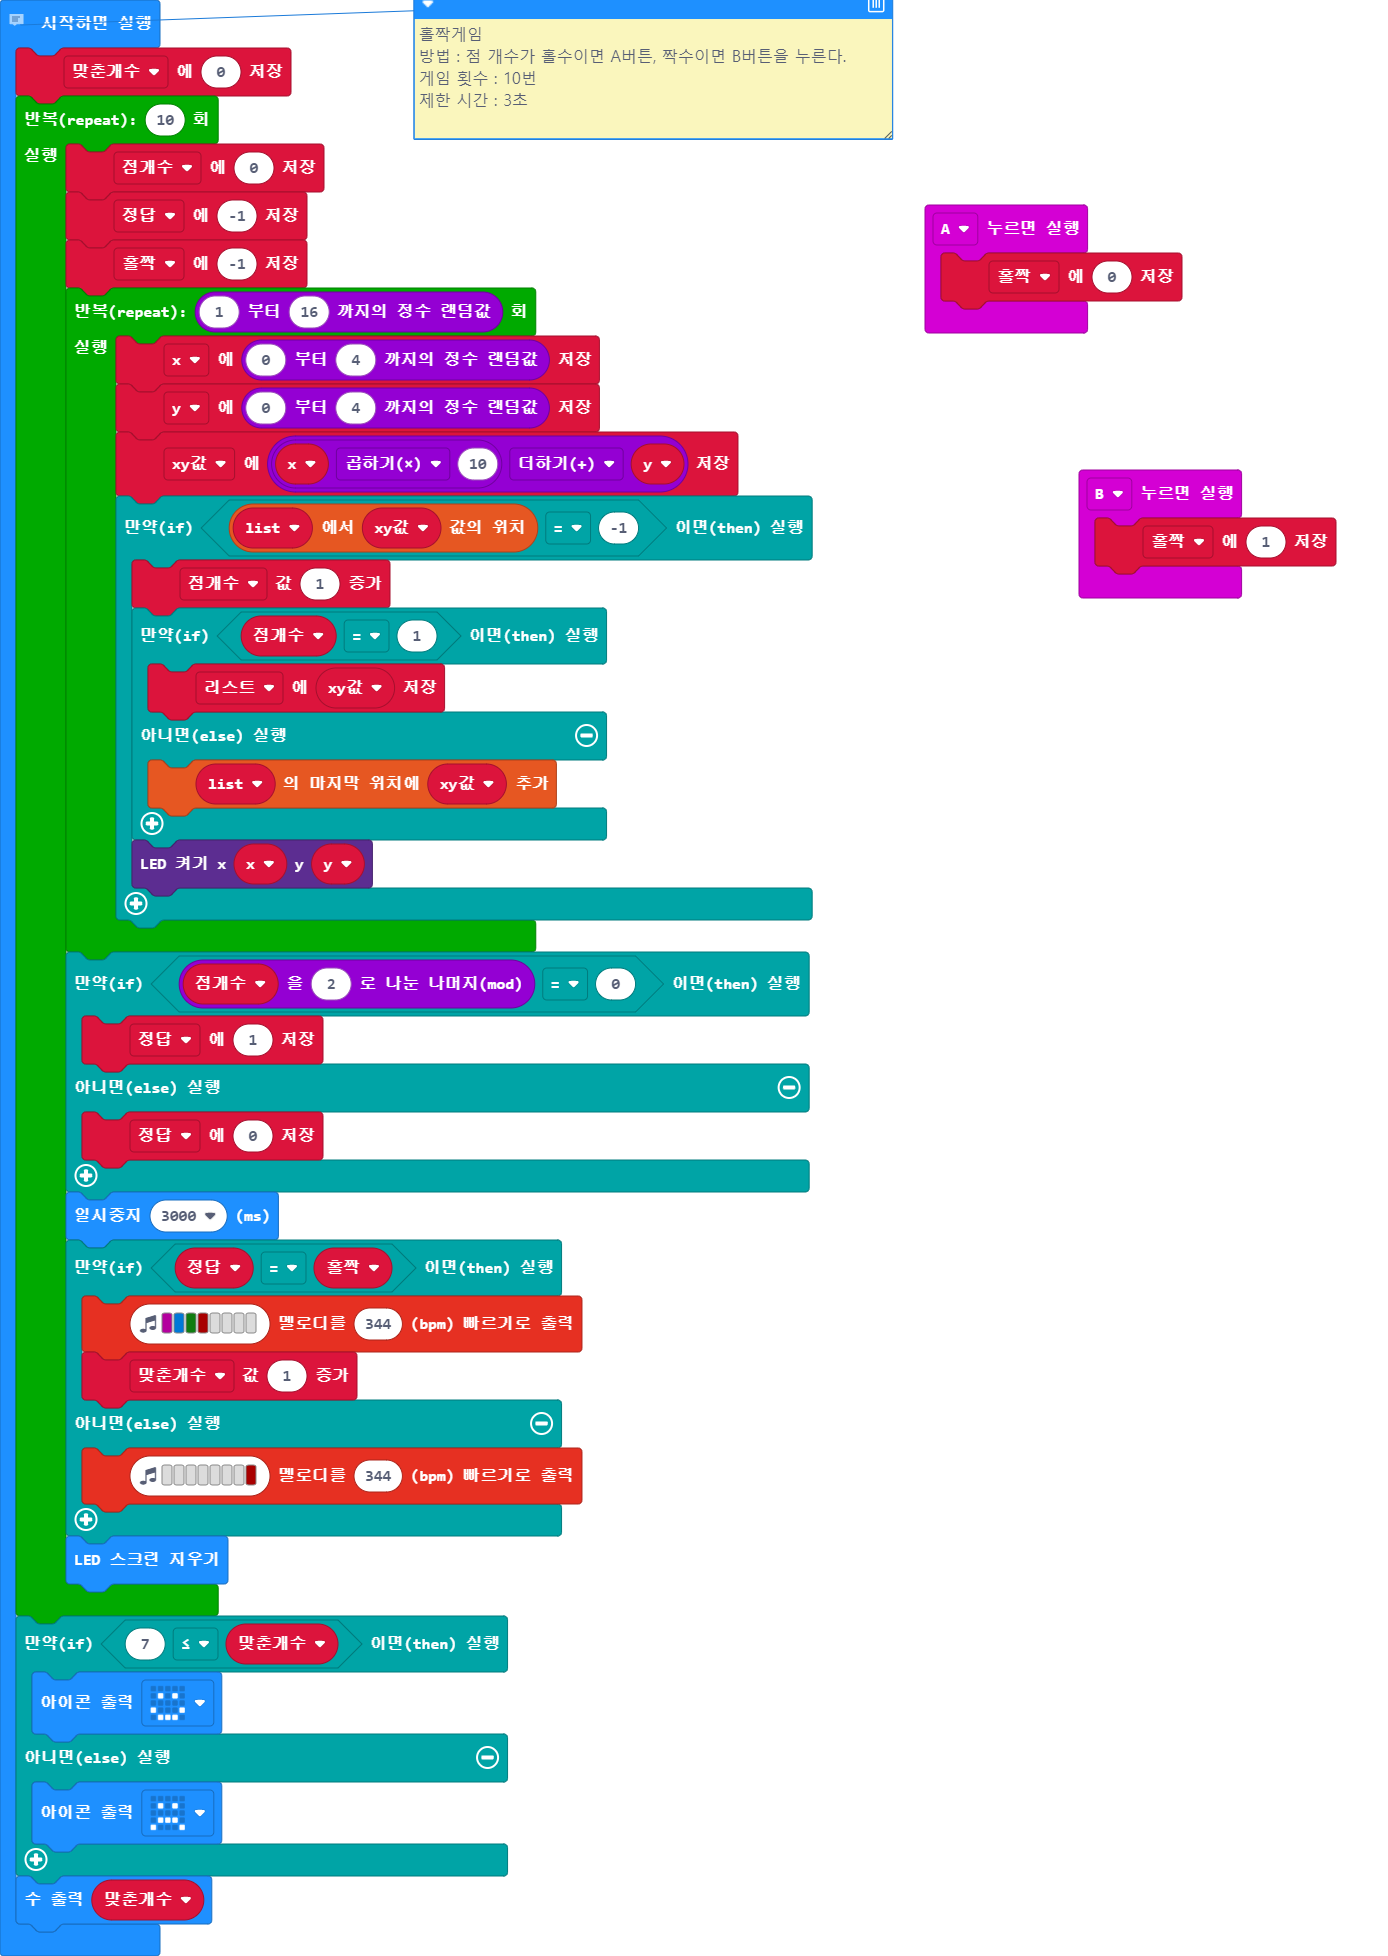
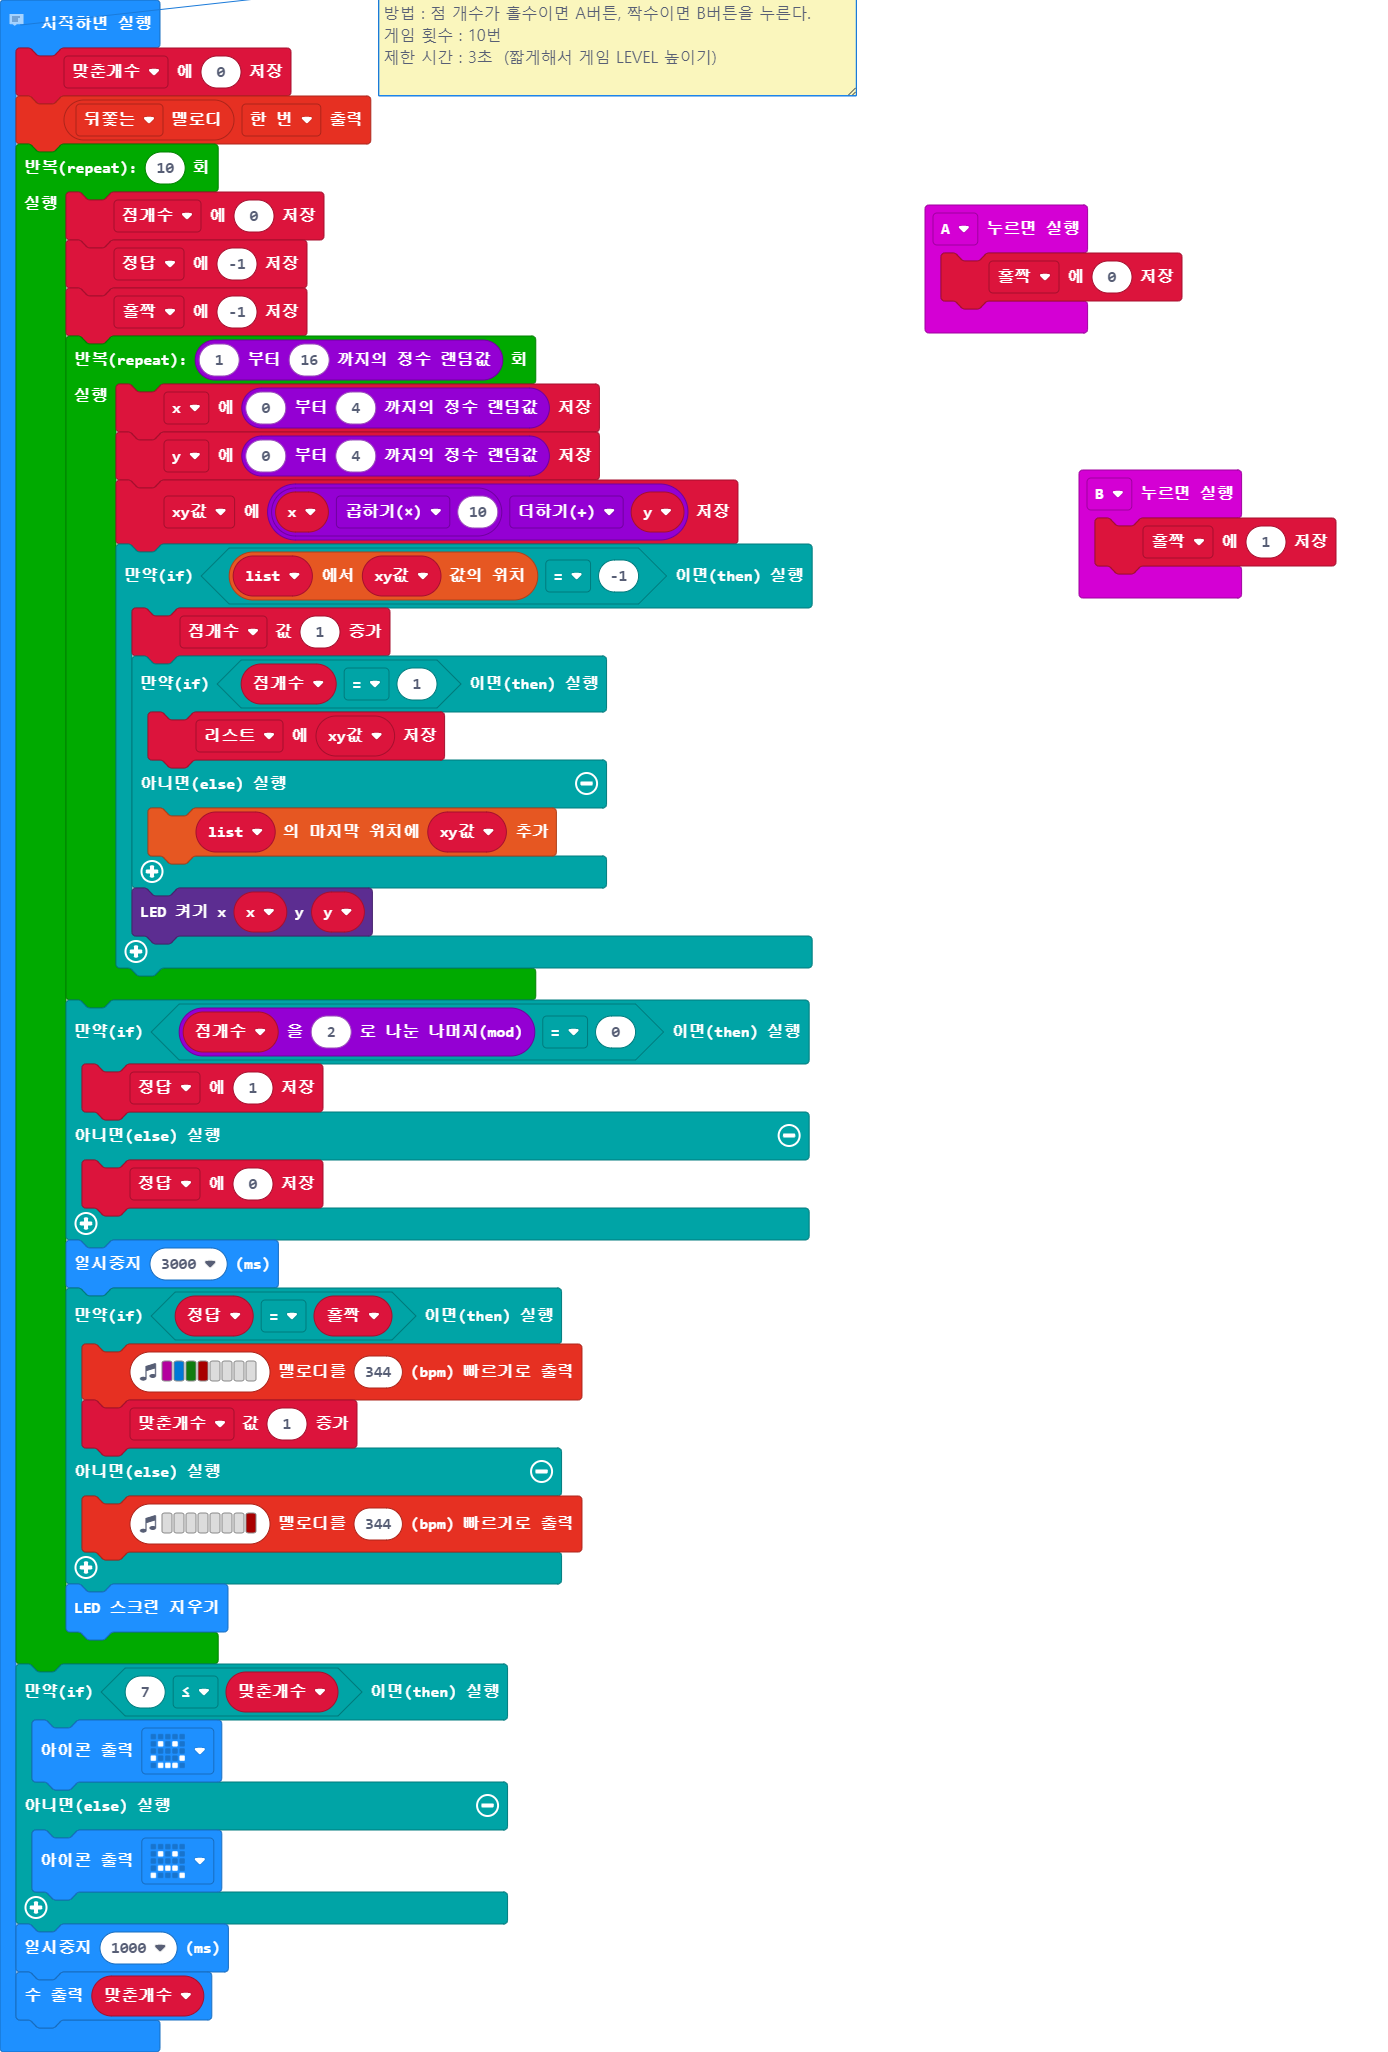
시작음악 추가

Changed region(s): [[0.0, 0.0, 0.6506, 0.998], [0.7745, 0.2183, 0.9604, 0.3119], [0.6506, 0.0936, 0.8674, 0.1871]]

diff --git a/main.ts b/main.ts
@@ -7,7 +7,7 @@ input.onButtonPressed(Button.B, function () {
 // 홀짝게임 
 // 방법 : 점 개수가 홀수이면 A버튼, 짝수이면 B버튼을 누른다.
 // 게임 횟수 : 10번
-// 제한 시간 : 3초
+// 제한 시간 : 3초  (짧게해서 게임 LEVEL 높이기)
 // 
 let 리스트 = 0
 let xy값 = 0
@@ -17,6 +17,7 @@ let 홀짝 = 0
 let 정답 = 0
 let 점개수 = 0
 let 맞춘개수 = 0
+music.startMelody(music.builtInMelody(Melodies.Chase), MelodyOptions.Once)
 for (let index = 0; index < 10; index++) {
     점개수 = 0
     정답 = -1
@@ -55,4 +56,5 @@ if (7 <= 맞춘개수) {
 } else {
     basic.showIcon(IconNames.Sad)
 }
+basic.pause(1000)
 basic.showNumber(맞춘개수)
